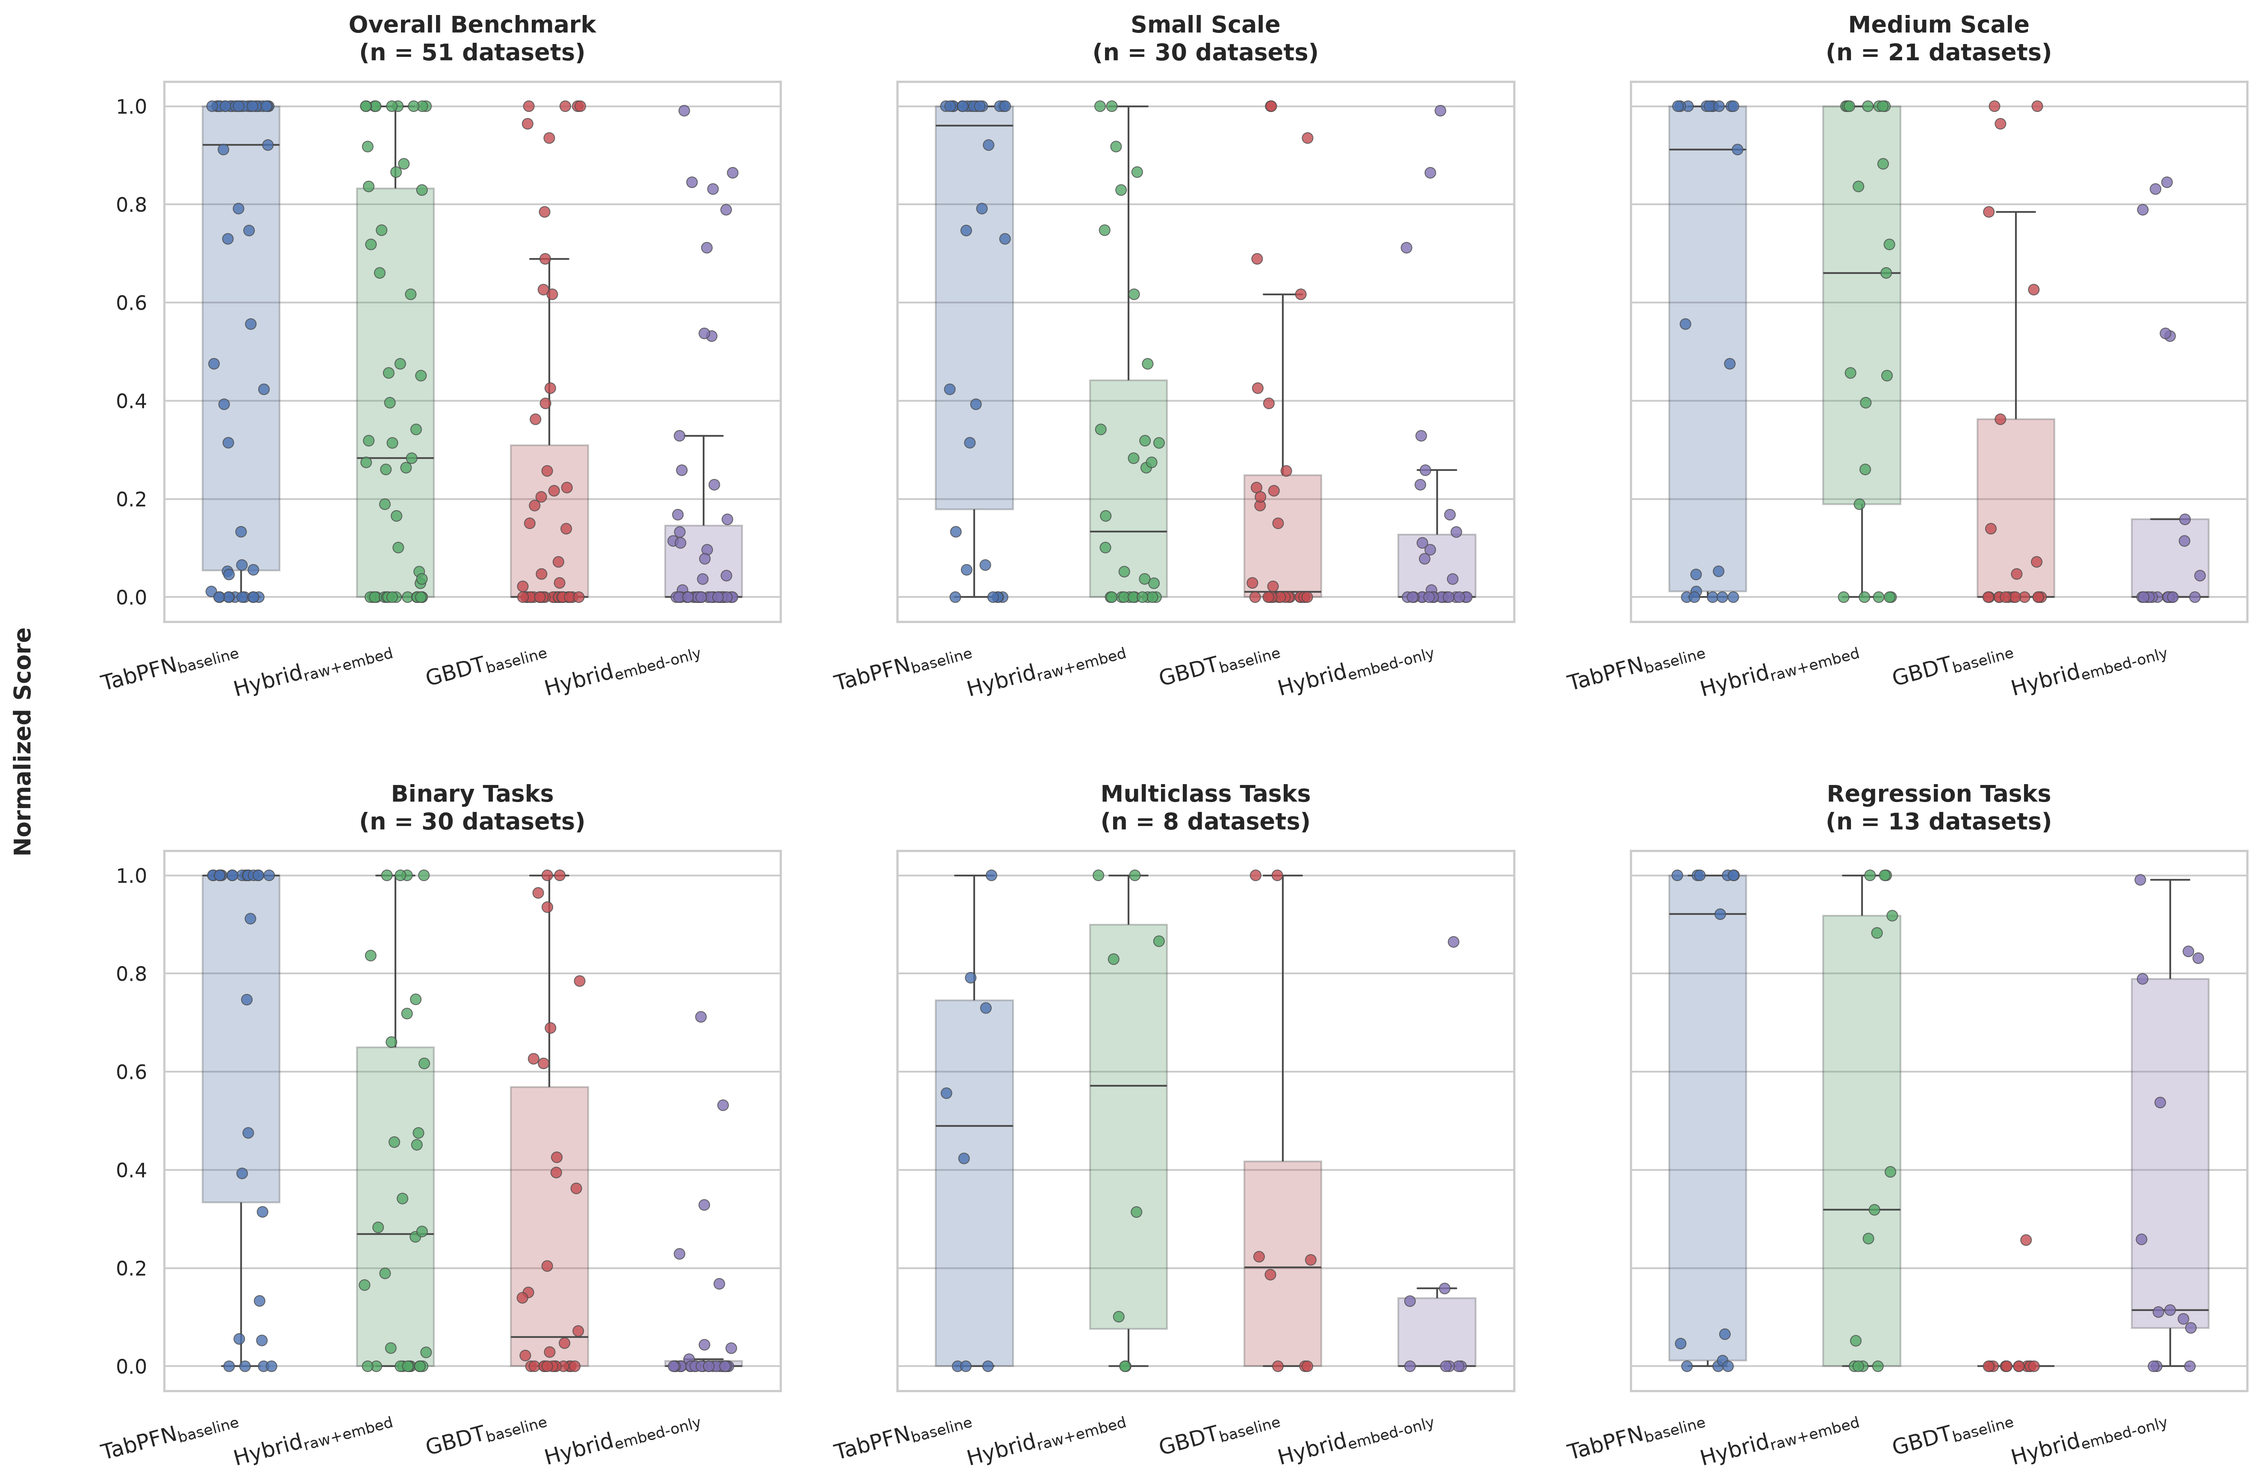
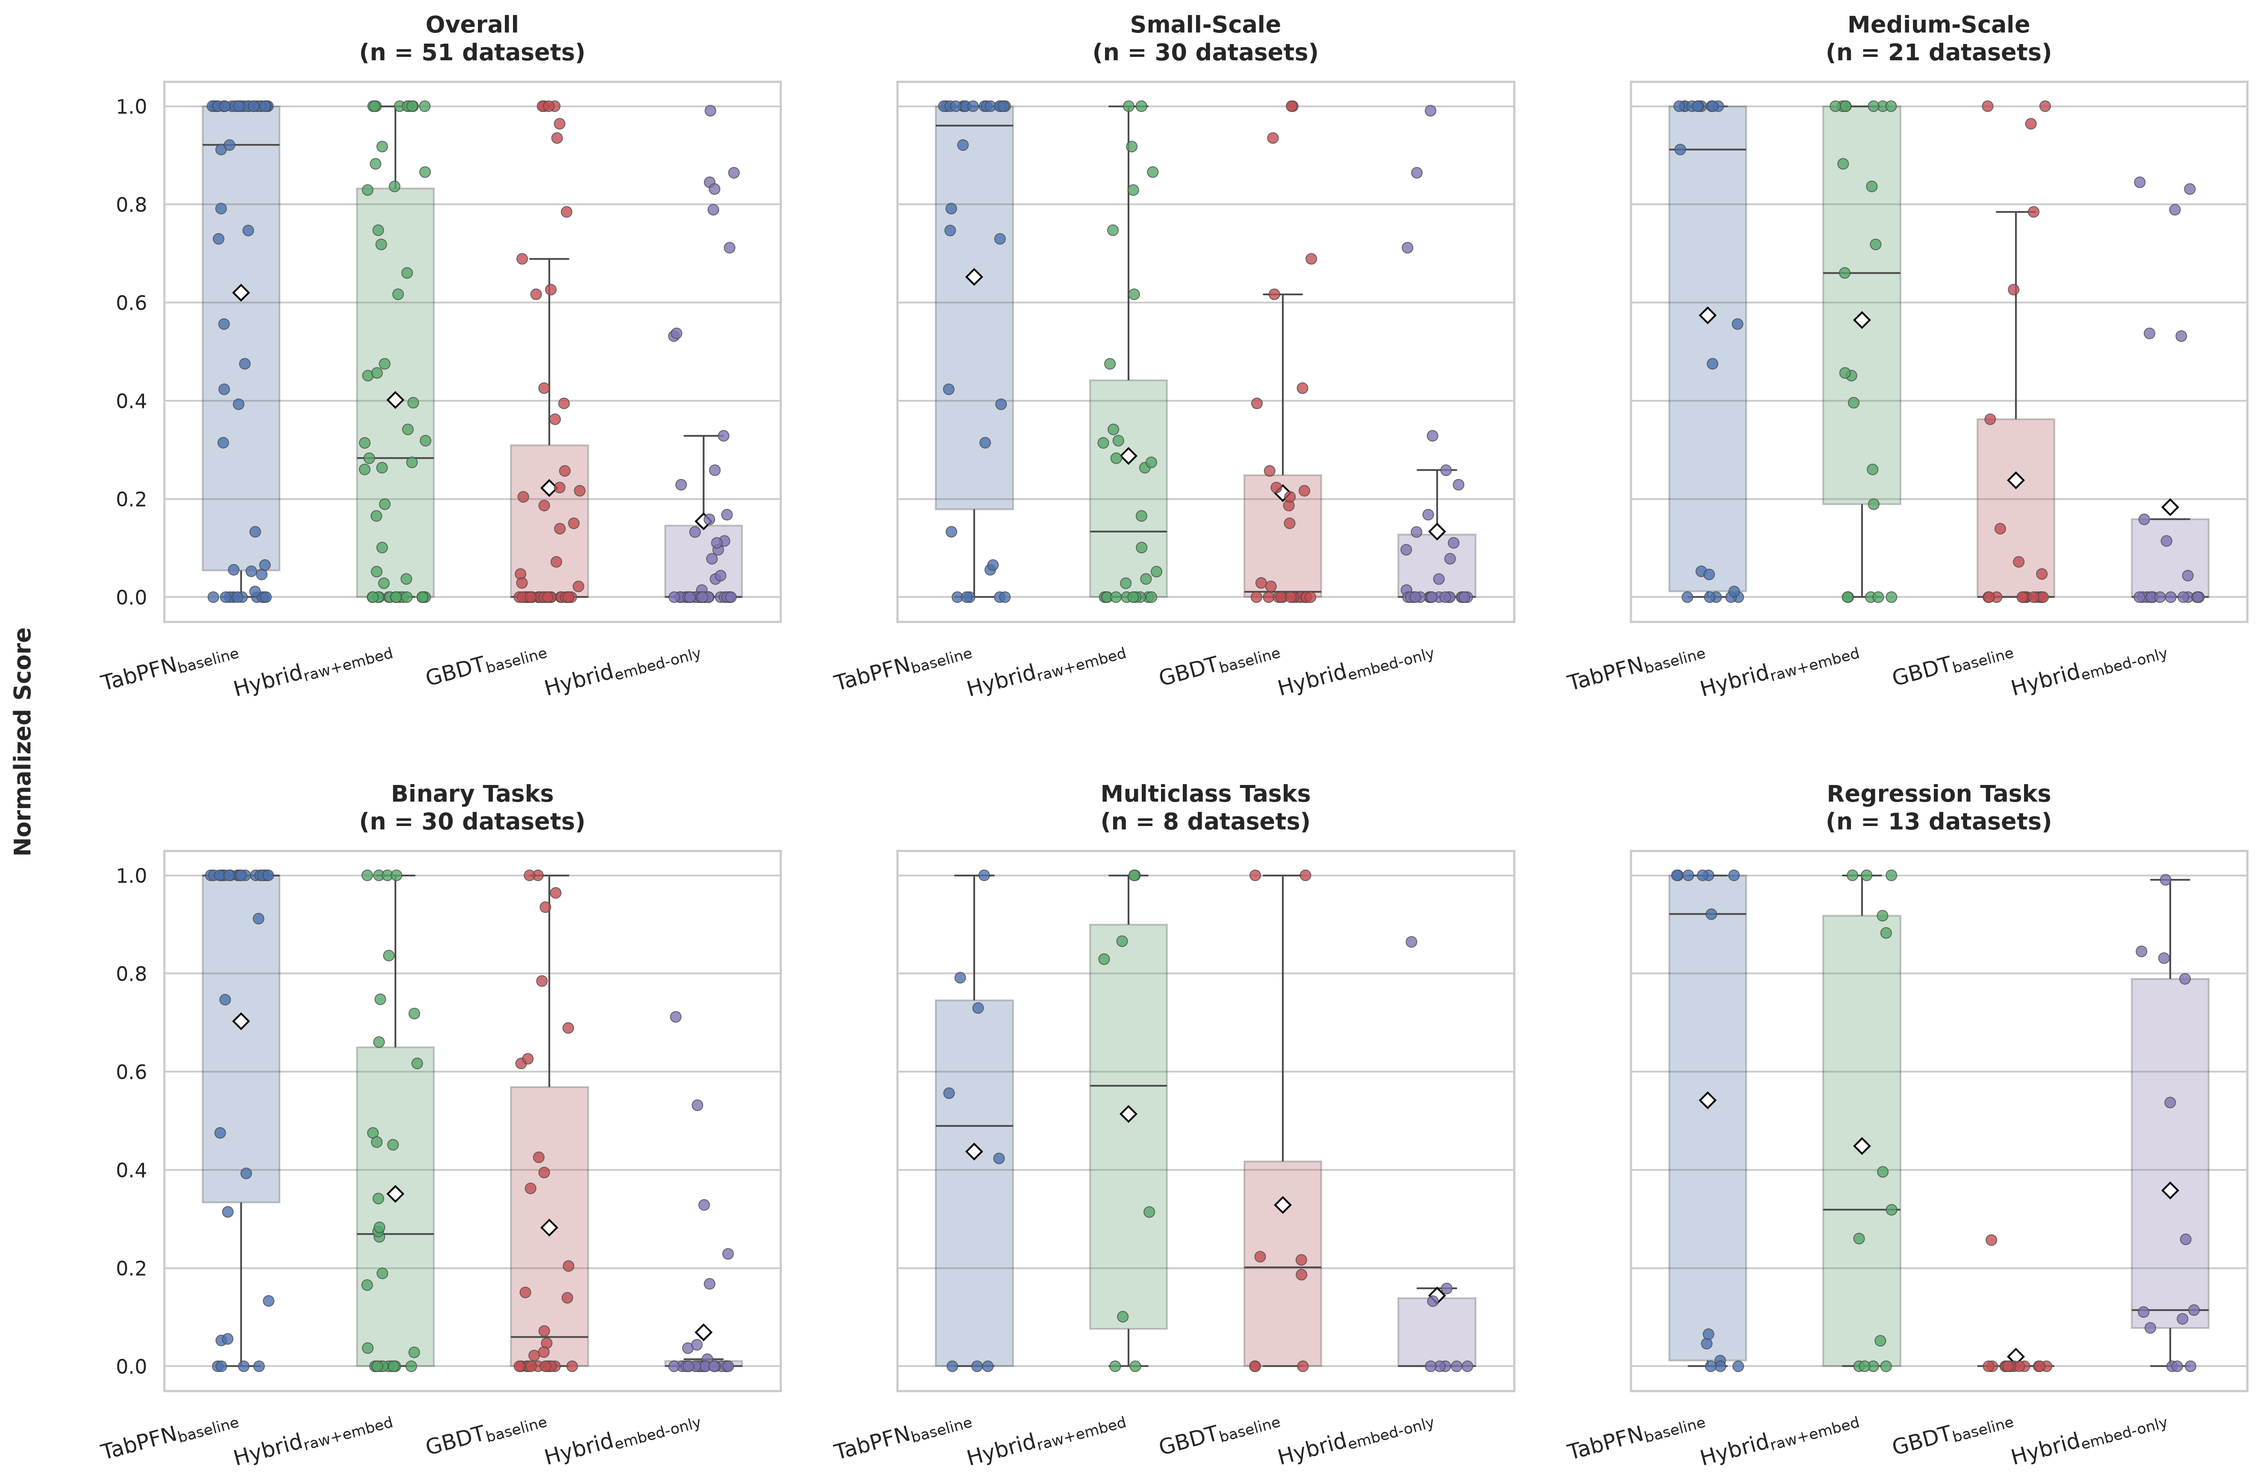
add variants boxplot

diff --git a/reporting/plot_norm_scores_variants.py b/reporting/plot_norm_scores_variants.py
@@ -1,19 +1,11 @@
 """
-==============================================================================
-Script: generate_faceted_boxplot.py
-
-Description:
+Script Description:
 Generates a 2x3 faceted box plot overlaid with jittered data points using the
-Median-Based Normalized Scores.
-
-Facets:
-- Row 1: Overall, Small-Scale (<10k), Medium-Scale (>=10k)
-- Row 2: Binary Tasks, Multiclass Tasks, Regression Tasks
-Y-Axis: Normalized Score (Centralized for the entire figure).
-X-Axis: Architectural Strategies (Labels on all rows).
-==============================================================================
+Median-Based Normalized Scores. Visualizes the top 3 individual variants for
+each specific strata (facet) rather than overarching paradigms.
 """
 
+import sys
 from pathlib import Path
 import pandas as pd
 import numpy as np
@@ -23,43 +15,85 @@ import seaborn as sns
 # ==============================================================================
 # CONFIGURATION
 # ==============================================================================
-INPUT_CSV = "summary_matrix_refactored.csv"
-OUTPUT_PLOT = "outputs/norm_scores_boxplot_oracle.png"
+# Ensures file paths are strictly relative to this script's physical location, not the CWD
+try:
+    SCRIPT_DIR = Path(__file__).resolve().parent
+except NameError:
+    SCRIPT_DIR = Path(".").resolve()  # Fallback if executed in a Jupyter notebook
+
+INPUT_CSV = SCRIPT_DIR / "summary_matrix_refactored.csv"
+OUTPUT_PLOT = SCRIPT_DIR / "outputs" / "norm_scores_boxplot_variants.png"
 
 # Metrics where a lower value indicates better performance (Error metrics)
 LOWER_IS_BETTER = ["1-auroc", "log_loss", "rmse", "mae", "mse", "error"]
 
-# Order of strategies on the X-axis for consistent visual tracking
-STRATEGY_ORDER = ["tabpfn_baseline", "combined_*", "raw-only_*", "embed-only_*"]
-
-# Map internal strategy names to formal LaTeX names for the chart labels
+# Map internal variant names to formal LaTeX names for the chart labels
 LABEL_MAP = {
-    "tabpfn_baseline": r"$\text{TabPFN}_{\text{baseline}}$",
-    "combined_*": r"$\text{Hybrid}_{\text{raw+embed}}$",
-    "raw-only_*": r"$\text{GBDT}_{\text{baseline}}$",
-    "embed-only_*": r"$\text{Hybrid}_{\text{embed-only}}$",
+    "baseline_tabpfn": r"$\text{TabPFN}_{\text{baseline}}$",
+    "combined_lightgbm": r"$\text{LightGBM}_{\text{raw+embed}}$",
+    "combined_catboost": r"$\text{CatBoost}_{\text{raw+embed}}$",
+    "combined_xgboost": r"$\text{XGBoost}_{\text{raw+embed}}$",
+    "baseline_lightgbm": r"$\text{LightGBM}_{\text{baseline}}$",
+    "baseline_catboost": r"$\text{CatBoost}_{\text{baseline}}$",
+    "baseline_xgboost": r"$\text{XGBoost}_{\text{baseline}}$",
+    "embed-only_lightgbm": r"$\text{LightGBM}_{\text{embed-only}}$",
+    "embed-only_catboost": r"$\text{CatBoost}_{\text{embed-only}}$",
+    "embed-only_xgboost": r"$\text{XGBoost}_{\text{embed-only}}$",
+}
+
+# Fixed colors for all 10 variants
+VARIANT_COLORS = {
+    # Distinct colors for the 6 variants that can appear in the top 3
+    "baseline_tabpfn": "#4c72b0",
+    "combined_lightgbm": "#55a868",
+    "combined_catboost": "#c44e52",
+    "baseline_lightgbm": "#d7bb55",
+    "embed-only_catboost": "#8172b3",
+    # Gray for the variants that never make the top 3
+    "baseline_catboost": "#b0b0b0",
+    "combined_xgboost": "#b0b0b0",
+    "baseline_xgboost": "#b0b0b0",
+    "embed-only_xgboost": "#b0b0b0",
+    "embed-only_lightgbm": "#b0b0b0",
 }
 # ==============================================================================
 
 
-def determine_paradigm(row):
-    """Identifies the architectural paradigm based on mode/algorithm columns."""
+def determine_variant(row):
+    """Constructs the variant identifier matching the leaderboard naming convention."""
     mode = str(row.get("mode", "")).lower().strip()
     algo = str(row.get("algorithm", "")).lower().strip()
 
     if "tabpfn" in algo or "tabpfn" in mode:
-        return "tabpfn_baseline"
+        return "baseline_tabpfn"
     elif "combined" in mode:
-        return "combined_*"
+        return f"combined_{algo}"
     elif "embed-only" in mode or "embed_only" in mode:
-        return "embed-only_*"
+        return f"embed-only_{algo}"
     elif "raw-only" in mode or "raw_only" in mode or "raw" == mode:
-        return "raw-only_*"
-    return None
+        return f"baseline_{algo}"
+
+    # Fallback if 'Strategy' column exists
+    return row.get("Strategy", "unknown")
+
+
+def get_top_n_variants(facet_df, n=3):
+    """Calculates mean normalized scores and returns the filtered DF and ordered top N variants."""
+    means = facet_df.groupby("Variant")["Normalized_Score"].mean().reset_index()
+    top_variants = (
+        means.sort_values(by="Normalized_Score", ascending=False)
+        .head(n)["Variant"]
+        .tolist()
+    )
+
+    filtered_df = facet_df[facet_df["Variant"].isin(top_variants)].copy()
+    filtered_df["Variant"] = pd.Categorical(
+        filtered_df["Variant"], categories=top_variants, ordered=True
+    )
+    return filtered_df, top_variants
 
 
 def main():
-    # Set high-quality aesthetic theme
     sns.set_theme(style="whitegrid", palette="muted")
     plt.rcParams.update(
         {
@@ -72,16 +106,15 @@ def main():
         }
     )
 
-    input_path = Path(INPUT_CSV)
-    if not input_path.exists():
+    if not INPUT_CSV.exists():
         print(f"Error: Input file not found at {INPUT_CSV}")
-        return
+        sys.exit(1)
 
-    df = pd.read_csv(input_path)
+    df = pd.read_csv(INPUT_CSV)
 
-    # 1. Map Paradigms & Clean Task Types
-    df["Paradigm"] = df.apply(determine_paradigm, axis=1)
-    df = df[df["Paradigm"].notna()].copy()
+    # 1. Map Variants & Clean Task Types
+    df["Variant"] = df.apply(determine_variant, axis=1)
+    df = df[df["Variant"] != "unknown"].copy()
     df["Task Type"] = df["task_type"].str.lower().str.strip().str.capitalize()
 
     # Classify Dataset Scale (< 10k is Small, >= 10k is Medium)
@@ -97,11 +130,10 @@ def main():
     else:
         df["Scale"] = "Unknown"
 
-    # Filter strictly to the three core thesis tasks
     df = df[df["Task Type"].isin(["Binary", "Multiclass", "Regression"])].copy()
 
-    # 2. Compute Median-Based Normalized Scores per Dataset
-    dataset_ceilings = []
+    # 2. Compute Median-Based Normalized Scores per Dataset across ALL variants
+    dataset_scores = []
 
     for (dataset, metric), sub_df in df.groupby(["dataset", "primary_metric"]):
         is_lower = str(metric).lower() in LOWER_IS_BETTER
@@ -110,38 +142,29 @@ def main():
 
         raw_vals = sub_df["eval_primary_value"]
 
-        # Calculate Topline (Best) and Baseline (Median)
+        # Calculate Topline (Best) and Baseline (Median) across all 10 models
         topline = raw_vals.min() if is_lower else raw_vals.max()
         baseline = raw_vals.median()
-
-        # Denominator clipping to 1e-5 to prevent division by zero
         denominator = max(abs(baseline - topline), 1e-5)
 
         if is_lower:
-            # For error metrics, distance from baseline (lower is better)
             sub_df["Norm_Score"] = ((baseline - raw_vals) / denominator).clip(0.0, 1.0)
         else:
-            # For accuracy metrics, distance from baseline (higher is better)
             sub_df["Norm_Score"] = ((raw_vals - baseline) / denominator).clip(0.0, 1.0)
 
-        # Extract the Ceiling (Best Score) per Paradigm for this Dataset
-        for paradigm in STRATEGY_ORDER:
-            p_df = sub_df[sub_df["Paradigm"] == paradigm]
-            if p_df.empty:
-                continue
-
-            best_score = p_df["Norm_Score"].max()
-            dataset_ceilings.append(
+        # Collect scores for all available variants on this dataset
+        for _, row in sub_df.iterrows():
+            dataset_scores.append(
                 {
                     "dataset": dataset,
                     "Task Type": task,
                     "Scale": scale,
-                    "Paradigm": paradigm,
-                    "Normalized_Score": best_score,
+                    "Variant": row["Variant"],
+                    "Normalized_Score": row["Norm_Score"],
                 }
             )
 
-    plot_df = pd.DataFrame(dataset_ceilings)
+    plot_df = pd.DataFrame(dataset_scores)
 
     # 3. Define the 6 Facets for the 2x3 Grid
     facets = [
@@ -159,35 +182,30 @@ def main():
         },
     ]
 
-    # Build the Faceted Plot Structure (2 Rows, 3 Columns)
     fig, axes = plt.subplots(2, 3, figsize=(18, 12), sharey=True)
     axes_flat = axes.flatten()
-
-    colors = {
-        "tabpfn_baseline": "#4c72b0",
-        "combined_*": "#55a868",
-        "raw-only_*": "#c44e52",
-        "embed-only_*": "#8172b3",
-    }
 
     print("Generating chart layers...")
     for i, facet in enumerate(facets):
         ax = axes_flat[i]
-        facet_data = facet["data"]
+
+        # Filter to top 3 variants dynamically for this specific facet
+        facet_data, top_variants = get_top_n_variants(facet["data"], n=3)
         distinct_datasets = facet_data["dataset"].nunique()
 
         sns.boxplot(
             data=facet_data,
-            x="Paradigm",
+            x="Variant",
             y="Normalized_Score",
-            hue="Paradigm",
+            hue="Variant",
             legend=False,
-            order=STRATEGY_ORDER,
+            order=top_variants,
             ax=ax,
             width=0.5,
             boxprops=dict(alpha=0.3),
-            palette=colors,
+            palette=VARIANT_COLORS,
             showfliers=False,
+            dodge=False,
             showmeans=True,
             meanprops=dict(
                 marker="D",
@@ -199,18 +217,19 @@ def main():
 
         sns.stripplot(
             data=facet_data,
-            x="Paradigm",
+            x="Variant",
             y="Normalized_Score",
-            hue="Paradigm",
+            hue="Variant",
             legend=False,
-            order=STRATEGY_ORDER,
+            order=top_variants,
             ax=ax,
-            palette=colors,
+            palette=VARIANT_COLORS,
             size=6,
             jitter=0.2,
             alpha=0.8,
             linewidth=0.5,
             edgecolor="auto",
+            dodge=False,
         )
 
         ax.set_title(
@@ -220,20 +239,15 @@ def main():
         )
         ax.set_xlabel("")
         ax.set_ylim(-0.05, 1.05)
-
-        # Explicitly remove the individual Y-axis labels
         ax.set_ylabel("")
 
-        # Map internal strategy names to formal LaTeX labels for ALL rows
-        ax.set_xticks(range(len(STRATEGY_ORDER)))
-        raw_ticks = STRATEGY_ORDER
-        clean_ticks = [LABEL_MAP.get(tick, tick) for tick in raw_ticks]
+        # Apply specific X-axis labels for this subplot
+        ax.set_xticks(range(len(top_variants)))
+        clean_ticks = [LABEL_MAP.get(tick, tick) for tick in top_variants]
         ax.set_xticklabels(clean_ticks, rotation=15, ha="right")
 
-    # Global adjustments: Add h_pad so the new top-row labels don't hit bottom-row titles
     plt.tight_layout(pad=2.0, h_pad=4.0, rect=[0.03, 0, 1, 1])
 
-    # Apply a single, centered Y-axis label to the entire figure
     fig.supylabel(
         "Normalized Score",
         x=0.015,
@@ -242,12 +256,11 @@ def main():
     )
 
     # 4. Save Output
-    output_path = Path(OUTPUT_PLOT)
-    output_path.parent.mkdir(parents=True, exist_ok=True)
-    plt.savefig(output_path, dpi=300, bbox_inches="tight")
+    OUTPUT_PLOT.parent.mkdir(parents=True, exist_ok=True)
+    plt.savefig(OUTPUT_PLOT, dpi=300, bbox_inches="tight")
     plt.close()
 
-    print(f"Success! Clean 2x3 faceted box plot successfully saved to: {output_path}")
+    print(f"Success! Clean 2x3 faceted box plot successfully saved to: {OUTPUT_PLOT}")
 
 
 if __name__ == "__main__":

diff --git a/reporting/plot_norm_scores.py b/reporting/plot_norm_scores.py
@@ -7,7 +7,7 @@ Generates a 2x3 faceted box plot overlaid with jittered data points using the
 Median-Based Normalized Scores.
 
 Facets:
-- Row 1: Overall, Small Scale (<10k), Medium Scale (>=10k)
+- Row 1: Overall, Small-Scale (<10k), Medium-Scale (>=10k)
 - Row 2: Binary Tasks, Multiclass Tasks, Regression Tasks
 Y-Axis: Normalized Score (Centralized for the entire figure).
 X-Axis: Architectural Strategies (Labels on all rows).
@@ -157,9 +157,9 @@ def main():
 
     # 3. Define the 6 Facets for the 2x3 Grid
     facets = [
-        {"title": "Overall Benchmark", "data": plot_df},
-        {"title": "Small Scale", "data": plot_df[plot_df["Scale"] == "Small"]},
-        {"title": "Medium Scale", "data": plot_df[plot_df["Scale"] == "Medium"]},
+        {"title": "Overall", "data": plot_df},
+        {"title": "Small-Scale", "data": plot_df[plot_df["Scale"] == "Small"]},
+        {"title": "Medium-Scale", "data": plot_df[plot_df["Scale"] == "Medium"]},
         {"title": "Binary Tasks", "data": plot_df[plot_df["Task Type"] == "Binary"]},
         {
             "title": "Multiclass Tasks",
@@ -200,6 +200,13 @@ def main():
             boxprops=dict(alpha=0.3),
             palette=colors,
             showfliers=False,
+            showmeans=True,
+            meanprops=dict(
+                marker="D",
+                markerfacecolor="white",
+                markeredgecolor="black",
+                markersize=6,
+            ),
         )
 
         sns.stripplot(

diff --git a/reporting/alternative_norm_scores/plot_alt_norm_scores.py b/reporting/alternative_norm_scores/plot_alt_norm_scores.py
@@ -7,7 +7,7 @@ Generates a 2x3 faceted box plot overlaid with jittered data points using the
 Alternative Min-Max Normalized Scores.
 
 Facets:
-- Row 1: Overall, Small Scale (<10k), Medium Scale (>=10k)
+- Row 1: Overall, Small-Scale (<10k), Medium-Scale (>=10k)
 - Row 2: Binary Tasks, Multiclass Tasks, Regression Tasks
 Y-Axis: Normalized Score (Centralized for the entire figure).
 X-Axis: Architectural Strategies (Labels on all rows).
@@ -142,9 +142,9 @@ def main():
 
     # 3. Define the 6 Facets for the 2x3 Grid
     facets = [
-        {"title": "Overall Benchmark", "data": plot_df},
-        {"title": "Small Scale", "data": plot_df[plot_df["Scale"] == "Small"]},
-        {"title": "Medium Scale", "data": plot_df[plot_df["Scale"] == "Medium"]},
+        {"title": "Overall", "data": plot_df},
+        {"title": "Small-Scale", "data": plot_df[plot_df["Scale"] == "Small"]},
+        {"title": "Medium-Scale", "data": plot_df[plot_df["Scale"] == "Medium"]},
         {"title": "Binary Tasks", "data": plot_df[plot_df["Task Type"] == "Binary"]},
         {
             "title": "Multiclass Tasks",
